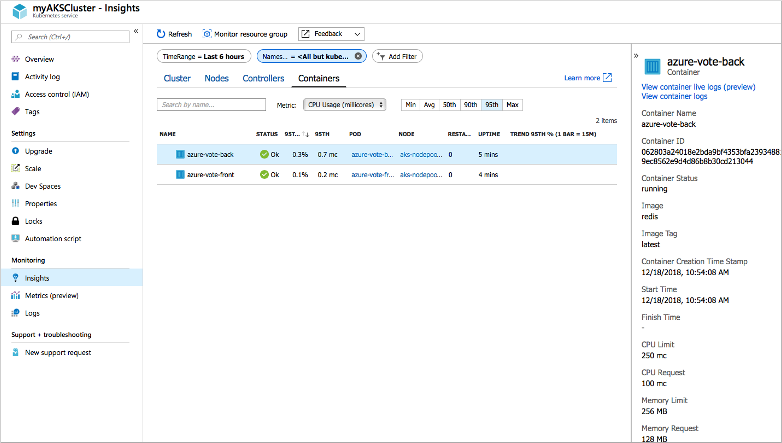
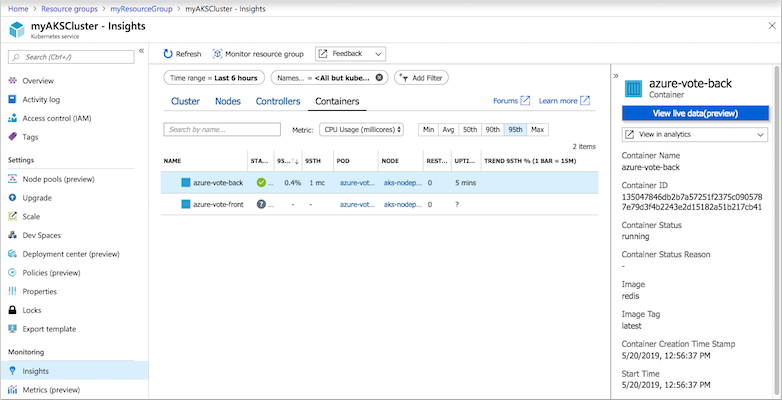
[AKS] Fixes MicrosoftDocs/azure-docs#30856

Changed region(s): [[0.0, 0.0, 1.0, 1.0], [0.0, 0.87, 0.2148, 0.99], [0.9821, 0.06, 1.0, 0.09]]

diff --git a/articles/aks/kubernetes-walkthrough.md b/articles/aks/kubernetes-walkthrough.md
@@ -6,7 +6,7 @@ author: iainfoulds
 
 ms.service: container-service
 ms.topic: quickstart
-ms.date: 12/18/2018
+ms.date: 05/20/2019
 ms.author: iainfou
 ms.custom: H1Hack27Feb2017, mvc, devcenter
 
@@ -27,7 +27,7 @@ If you don't have an Azure subscription, create a [free account](https://azure.m
 
 [!INCLUDE [cloud-shell-try-it.md](../../includes/cloud-shell-try-it.md)]
 
-If you choose to install and use the CLI locally, this quickstart requires that you are running the Azure CLI version 2.0.52 or later. Run `az --version` to find the version. If you need to install or upgrade, see [Install Azure CLI][azure-cli-install].
+If you choose to install and use the CLI locally, this quickstart requires that you are running the Azure CLI version 2.0.64 or later. Run `az --version` to find the version. If you need to install or upgrade, see [Install Azure CLI][azure-cli-install].
 
 ## Create a resource group
 
@@ -93,7 +93,7 @@ The following example output shows the single node created in the previous steps
 
 ```
 NAME                       STATUS   ROLES   AGE     VERSION
-aks-nodepool1-31718369-0   Ready    agent   6m44s   v1.9.11
+aks-nodepool1-31718369-0   Ready    agent   6m44s   v1.12.8
 ```
 
 ## Run the application
@@ -249,7 +249,7 @@ The *azure-vote-back* and *azure-vote-front* containers are displayed, as shown 
 
 ![View the health of running containers in AKS](media/kubernetes-walkthrough/monitor-containers.png)
 
-To see logs for the `azure-vote-front` pod, select the **View container logs** link on the right-hand side of the containers list. These logs include the *stdout* and *stderr* streams from the container.
+To see logs for the `azure-vote-front` pod, choose the option to **View in analytics**, then select **View container logs** link on the right-hand side of the containers list. These logs include the *stdout* and *stderr* streams from the container.
 
 ![View the containers logs in AKS](media/kubernetes-walkthrough/monitor-container-logs.png)
 
@@ -272,7 +272,7 @@ In this quickstart, pre-created container images were used to create a Kubernete
 
 ## Next steps
 
-In this quickstart, you deployed a Kubernetes cluster and deployed a multi-container application to it.  [Access the Kubernetes web dashboard][kubernetes-dashboard] for the cluster you just created.
+In this quickstart, you deployed a Kubernetes cluster and deployed a multi-container application to it. You can also [access the Kubernetes web dashboard][kubernetes-dashboard] for your AKS cluster.
 
 To learn more about AKS, and walk through a complete code to deployment example, continue to the Kubernetes cluster tutorial.
 
